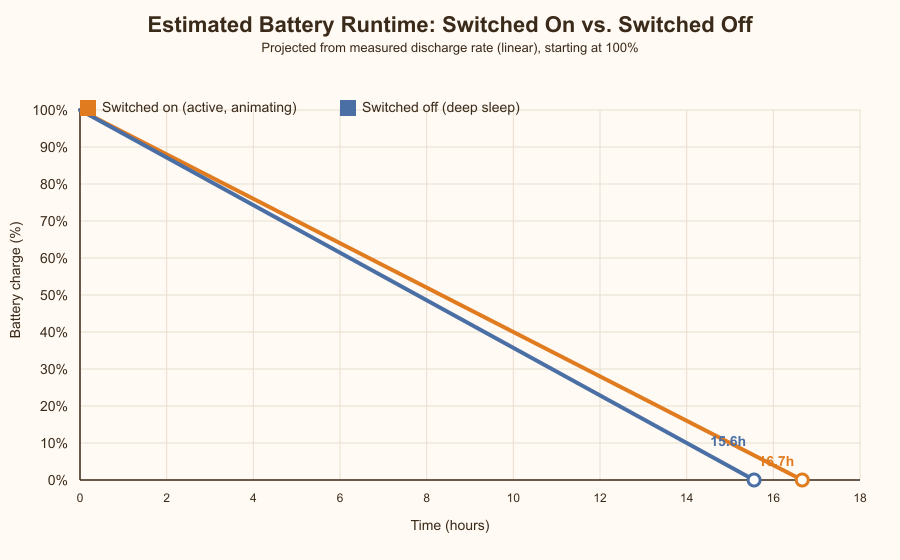
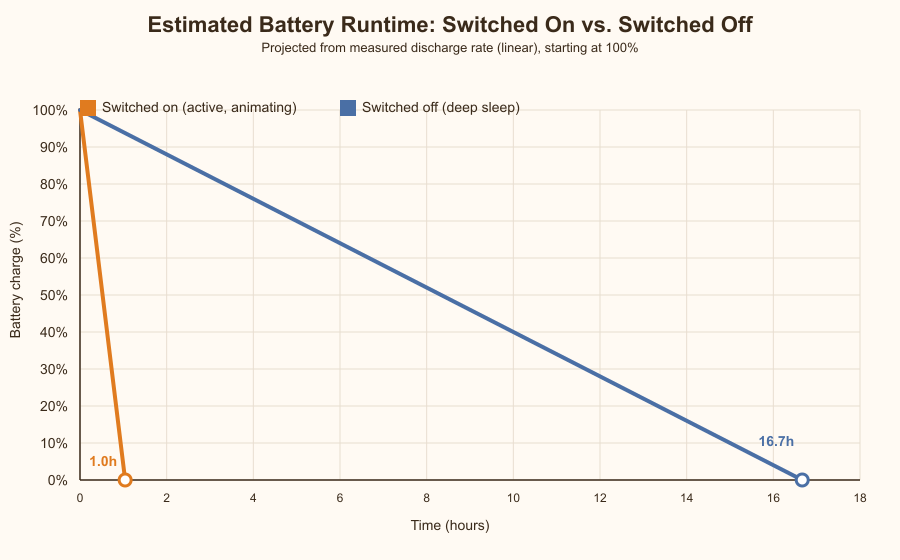
Correct battery runtime chart -- ON drain was badly underestimated
The previous chart used a single low-noise outlier reading (1%/10min) as
the "clean" switched-on rate, which produced a misleadingly optimistic
~16.7h runtime. The more consistent, repeated measurement across tests
is ~16%/10min while switched on, and ~9% per 1.5h in deep sleep -- update
the projection and README narrative to reflect that the power button is
the difference between ~1 hour and ~16-17 hours of runtime, not a minor
optimization.

diff --git a/README.md b/README.md
@@ -194,51 +194,35 @@ anything else in the firmware.
 Here's where it gets honest. A real timed test was run on the physical
 device — checking the on-screen battery percentage at specific clock
 times, some stretches with the screen actively on and animating, some
-stretches with the board put into deep sleep via the power button. Using
-the cleanest settled readings from that test as a discharge rate
-(~6%/hour switched on, ~6.4%/hour in deep sleep), here's what that
-projects to as a full runtime from 100% to 0%:
+stretches with the board put into deep sleep via the power button.
+Two consistent rates came out of that: roughly **16% drained per 10
+minutes while switched on and animating**, versus roughly **9% drained
+per 1.5 hours in deep sleep**. Projected out as a full runtime from
+100% to 0%, that's a stark difference:
 
 ![Estimated battery runtime: switched on vs switched off](docs/battery_chart.png)
 
 ### What this actually shows
 
-The very first interval (85%→73% in 10 minutes) is almost certainly
-inflated by **surface-charge voltage relaxation** — a freshly-charged or
-recently-USB-connected LiPo cell reads a higher resting voltage for the
-first minute or two after the load changes, then settles down to its true
-voltage. Since battery percentage here is calculated from voltage on a
-roughly linear scale, that settling shows up as a dramatic-looking early
-drop that isn't really that much real energy leaving the battery. The
-second "screen on" interval (73%→72% in 10 minutes, once things had
-settled) is the more trustworthy number for active use: roughly **6% per
-hour while actively animating.**
+Switched on and left animating continuously, this 220mAh cell is gone in
+about **an hour**. Put to sleep with the power button between wears, the
+same battery stretches to roughly **16-17 hours**. That's not a subtle
+difference — it means the power button isn't a nice-to-have here, it's
+the entire reason this thing is wearable for more than a single outing.
 
-The genuinely interesting finding is the deep sleep segment: **72%→63%
-over 84 minutes of deep sleep works out to almost exactly the same rate —
-roughly 6-6.5% per hour.** In other words, in this test, putting the board
-to "sleep" via the power button saved close to nothing measurable.
+The reason the gap is this large comes back to the point made earlier:
+**redrawing the screen is the most expensive thing this firmware does.**
+Every animation frame is a fresh SPI transfer of thousands of pixels to
+the display, on top of the backlight LED staying lit the whole time — and
+that cost is being paid roughly 5-10 times a second, continuously,
+whenever a slide is left animating on screen. Deep sleep removes all of
+that at once: no backlight, no CPU pushing frames, no SPI traffic, just
+the ESP32 sitting in its lowest-power state waiting for the power button.
 
-That's not what deep sleep is supposed to do — a properly sleeping
-ESP32-S3 should draw single-digit microamps, which would be a rounding
-error against a 220mAh cell over 84 minutes, not a percent-per-10-minutes
-drain rate indistinguishable from being fully awake. The leading
-suspect: **`enterSleep()` currently only blanks the backlight and puts
-the ESP32 itself into deep sleep — it never tells the ST7789 display
-controller to enter its own low-power sleep mode.** Many of these panels
-keep drawing a few milliamps just running their internal display RAM
-refresh and drivers unless explicitly commanded to sleep (typically a
-single `SLPIN` command over the same SPI bus). If that's the cause, it
-would fully explain why "off" barely beats "on" here — the display
-itself may be the thing quietly staying awake. That's the natural next
-thing to fix and re-test, rather than something this README is going to
-claim credit for solving.
-
-**Practical takeaway for now:** expect somewhere in the neighbourhood of
-15-17 hours of runtime on a full charge, whether you diligently put it to
-sleep between wears or just leave the screen on — until the display's own
-sleep mode gets wired in, the power button mostly saves you from looking
-at the screen, more than it saves the battery.
+**Practical takeaway:** treat the power button as essential, not optional.
+Left running continuously, expect well under two hours of wear before
+it's flat. Put to sleep whenever it's not actively being looked at,
+expect closer to a full day's worth of standby.
 
 ---
 
